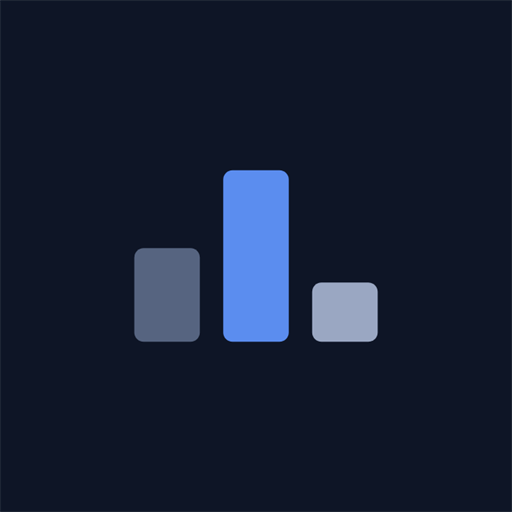
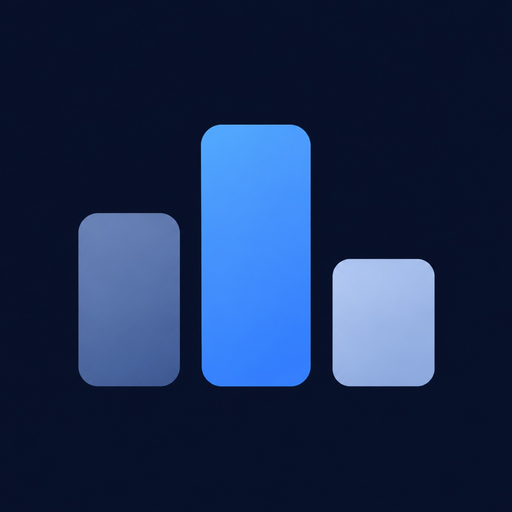
Add files via upload

Changed region(s): [[0.125, 0.2188, 0.875, 0.7812]]

diff --git a/index.html b/index.html
@@ -12,6 +12,8 @@
 <link rel="manifest" href="manifest.json">
 <meta name="mobile-web-app-capable" content="yes">
 <link rel="icon" type="image/svg+xml" href="icon.svg">
+<link rel="icon" type="image/png" sizes="192x192" href="icon-192.png">
+<link rel="apple-touch-icon" href="apple-touch-icon.png">
 <link rel="preconnect" href="https://fonts.googleapis.com">
 <link rel="preconnect" href="https://fonts.gstatic.com" crossorigin>
 <link href="https://fonts.googleapis.com/css2?family=Manrope:wght@500;600;700;800&display=swap" rel="stylesheet">
@@ -269,9 +271,84 @@ button.stat{text-align:left;color:inherit;width:100%;cursor:pointer}
 /* suggest edit */
 .suggest-row{background:var(--s2);border-radius:10px;padding:8px 12px;margin-bottom:6px;font-size:13px}
 .suggest-row b{display:block;font-size:12px;color:var(--acc)}
+
+/* Collectible badge gallery refresh */
+#badge-sheet .panel{background:radial-gradient(ellipse at 50% -20%,rgba(91,141,239,.16),transparent 55%),var(--s1)}
+#badge-sheet h2{font-size:22px;letter-spacing:-.035em}
+.badge-collection-head{display:flex;align-items:center;justify-content:space-between;gap:12px;margin:4px 0 14px;padding:13px 14px;border:1px solid var(--line);border-radius:16px;background:linear-gradient(135deg,rgba(91,141,239,.10),rgba(34,211,238,.045))}
+.badge-collection-head .bch-title{font-size:12px;font-weight:850;letter-spacing:.09em;text-transform:uppercase}
+.badge-collection-head .bch-count{font-size:12px;color:var(--mut);margin-top:3px}
+.badge-collection-head .bch-number{font-size:25px;font-weight:900;letter-spacing:-.05em;font-variant-numeric:tabular-nums}
+.badge-progress{height:5px;background:var(--s2);border-radius:99px;overflow:hidden;margin-top:9px}
+.badge-progress>span{display:block;height:100%;border-radius:99px;background:linear-gradient(90deg,#5B8DEF,#22D3EE);transition:width .35s ease}
+.badge-section-title{display:flex;align-items:center;justify-content:space-between;gap:10px;margin:17px 2px 9px;font-size:10px;font-weight:900;text-transform:uppercase;letter-spacing:.12em;color:var(--mut)}
+.badge-section-title .bst-count{padding:4px 7px;border:1px solid var(--line);border-radius:999px;font-size:10px;letter-spacing:0}
+.badge-wall{display:grid;grid-template-columns:repeat(3,minmax(0,1fr));gap:9px}
+.badge-card{position:relative;display:flex;min-width:0;flex-direction:column;align-items:center;text-align:center;gap:6px;padding:12px 7px 11px;border:1px solid var(--line);border-radius:17px;background:linear-gradient(155deg,var(--s2),rgba(255,255,255,.015));overflow:hidden;isolation:isolate;transition:transform .18s ease,border-color .18s ease,background .18s ease}
+.badge-card:before{content:"";position:absolute;inset:0 0 auto;height:3px;background:linear-gradient(90deg,#5B8DEF,#22D3EE);opacity:.9}
+.badge-card.earned{border-color:rgba(91,141,239,.38);box-shadow:inset 0 0 0 1px rgba(91,141,239,.045),0 5px 18px rgba(0,0,0,.08)}
+.badge-card.earned:after{content:"✓";position:absolute;right:7px;top:7px;width:17px;height:17px;display:grid;place-items:center;border-radius:50%;background:rgba(52,211,153,.16);border:1px solid rgba(52,211,153,.42);color:#34d399;font-size:10px;font-weight:900}
+.badge-card.locked{background:linear-gradient(155deg,rgba(120,130,145,.07),var(--s1));border-style:dashed;opacity:.78}
+.badge-card.locked:before{background:var(--line);opacity:.8}
+.badge-card>div:first-child{display:grid;place-items:center;width:100%;min-height:82px}
+.badge-card img{width:76px;height:76px;max-width:100%;object-fit:contain;border-radius:14px!important;filter:drop-shadow(0 5px 7px rgba(0,0,0,.2));}
+.badge-card.locked img{filter:grayscale(1) brightness(.58) drop-shadow(0 3px 5px rgba(0,0,0,.12));opacity:.68}
+.badge-card.locked>div:first-child>div{border:1px dashed var(--line);background:var(--s2)!important;color:var(--mut)}
+.bc-name{font-size:12px;font-weight:850;line-height:1.2;overflow-wrap:anywhere}
+.bc-sub{font-size:10px;line-height:1.35;color:var(--mut);min-height:27px;max-width:100%;overflow-wrap:anywhere}
+.badge-card.earned .bc-sub{color:var(--mut)}
+.badge-card.locked .bc-name{opacity:.65!important}
+@media(min-width:430px){.badge-wall{grid-template-columns:repeat(4,minmax(0,1fr))}.badge-card{padding:13px 8px}.badge-card img{width:82px;height:82px}}
+@media(max-width:340px){.badge-wall{grid-template-columns:repeat(2,minmax(0,1fr))}.badge-card img{width:72px;height:72px}}
+@media(hover:hover){.badge-card.earned:hover{transform:translateY(-2px);border-color:rgba(34,211,238,.65)}}
+
+
+/* Challenge Room animated launch splash — centered, lightweight, accessible */
+#app-splash{position:fixed;inset:0;z-index:99999;display:grid;place-items:center;overflow:hidden;padding:24px;background:radial-gradient(ellipse at 50% 43%,rgba(37,103,221,.13),transparent 39%),linear-gradient(145deg,#080e22,#050a18 75%);opacity:1;visibility:visible;transition:opacity .42s ease,visibility .42s ease;color:#f4f7ff}
+#app-splash.splash-hidden{opacity:0;visibility:hidden;pointer-events:none}
+#app-splash .splash-ambient{position:absolute;width:260px;height:260px;border-radius:50%;background:#247bff;filter:blur(90px);opacity:0;animation:cr-ambient 4.2s ease-in-out infinite;pointer-events:none}
+#app-splash .splash-inner{position:relative;display:flex;flex-direction:column;align-items:center;justify-content:center;width:100%;max-width:440px;text-align:center;transform:translateY(-1vh);animation:cr-mark-in .85s cubic-bezier(.2,.8,.2,1) both}
+#app-splash .splash-halo{position:absolute;top:2%;width:min(66vw,260px);aspect-ratio:1;border-radius:50%;background:radial-gradient(circle,rgba(48,132,255,.18),transparent 68%);filter:blur(12px);opacity:0;animation:cr-halo-in 1.2s .3s ease-out forwards;pointer-events:none}
+#app-splash .splash-mark{display:block;position:relative;width:min(66vw,260px);height:auto;aspect-ratio:1;overflow:visible}
+#app-splash .splash-bar{transform-box:fill-box;transform-origin:center bottom;transform:scaleY(.03);opacity:.3;animation:cr-bar-rise .78s cubic-bezier(.18,.85,.25,1.15) forwards}
+#app-splash .splash-bar.left{animation-delay:.22s}#app-splash .splash-bar.center{animation-delay:.42s;filter:drop-shadow(0 0 10px rgba(47,130,255,.15))}#app-splash .splash-bar.right{animation-delay:.62s}
+#app-splash .splash-title{margin-top:5px;font:800 clamp(27px,7vw,36px)/1.1 var(--f);letter-spacing:-1.3px;color:#f4f7ff;opacity:0;transform:translateY(12px);animation:cr-text-in .7s .95s ease-out forwards}
+#app-splash .splash-title span{color:#55a1ff}
+#app-splash .splash-tagline{margin-top:12px;font-size:12px;letter-spacing:2.6px;text-transform:uppercase;color:#8c9bb9;opacity:0;animation:cr-fade-in .7s 1.25s ease forwards}
+#app-splash .splash-line{width:108px;height:3px;border-radius:20px;background:rgba(145,169,211,.14);overflow:hidden;margin-top:35px;opacity:0;animation:cr-fade-in .5s 1.4s ease forwards}
+#app-splash .splash-line:after{content:"";display:block;width:38%;height:100%;border-radius:20px;background:linear-gradient(90deg,#2875ff,#78c5ff);box-shadow:0 0 12px rgba(49,136,255,.6);animation:cr-load 2.1s 1.6s ease-in-out infinite}
+#app-splash .splash-hint{position:absolute;bottom:calc(22px + env(safe-area-inset-bottom));color:#53617d;font-size:11px;letter-spacing:.5px;opacity:0;animation:cr-fade-in .7s 1.7s ease forwards}
+@keyframes cr-bar-rise{0%{transform:scaleY(.03);opacity:.15}68%{transform:scaleY(1.045);opacity:1}100%{transform:scaleY(1);opacity:1}}
+@keyframes cr-mark-in{from{opacity:0;transform:translateY(8px) scale(.94)}to{opacity:1;transform:translateY(-1vh) scale(1)}}
+@keyframes cr-halo-in{to{opacity:1}}@keyframes cr-text-in{to{opacity:1;transform:translateY(0)}}@keyframes cr-fade-in{to{opacity:1}}
+@keyframes cr-ambient{0%,100%{opacity:.03;transform:scale(.8)}50%{opacity:.13;transform:scale(1.12)}}
+@keyframes cr-load{0%{transform:translateX(-110%)}55%{transform:translateX(180%)}100%{transform:translateX(310%)}}
+@media(prefers-reduced-motion:reduce){#app-splash *,#app-splash:before{animation-duration:.01ms!important;animation-iteration-count:1!important;transition:none!important}}
 </style>
 </head>
 <body>
+<div id="app-splash" role="status" aria-label="Loading Challenge Room">
+  <div class="splash-ambient" aria-hidden="true"></div>
+  <div class="splash-inner">
+    <div class="splash-halo" aria-hidden="true"></div>
+    <svg class="splash-mark" viewBox="0 0 400 400" role="img" aria-label="Challenge Room three-bar logo" xmlns="http://www.w3.org/2000/svg">
+      <defs>
+        <linearGradient id="cr-splash-blue" x1="0" y1="0" x2=".2" y2="1"><stop offset="0" stop-color="#55adff"/><stop offset="1" stop-color="#2878ff"/></linearGradient>
+        <linearGradient id="cr-splash-muted-left" x1="0" y1="0" x2="0" y2="1"><stop offset="0" stop-color="#8198c4"/><stop offset="1" stop-color="#3e5788"/></linearGradient>
+        <linearGradient id="cr-splash-muted-right" x1="0" y1="0" x2="0" y2="1"><stop offset="0" stop-color="#c0d7ff"/><stop offset="1" stop-color="#87a8e2"/></linearGradient>
+      </defs>
+      <g transform="translate(17 0)">
+        <rect class="splash-bar left" x="43" y="166" width="80" height="136" rx="19" fill="url(#cr-splash-muted-left)"/>
+        <rect class="splash-bar center" x="140" y="70" width="86" height="232" rx="20" fill="url(#cr-splash-blue)"/>
+        <rect class="splash-bar right" x="243" y="202" width="80" height="100" rx="19" fill="url(#cr-splash-muted-right)"/>
+      </g>
+    </svg>
+    <div class="splash-title">Challenge <span>Room</span></div>
+    <div class="splash-tagline">Show up. Level up.</div>
+    <div class="splash-line" aria-hidden="true"></div>
+  </div>
+  <div class="splash-hint" aria-hidden="true">BUILT FOR YOUR NEXT LEVEL</div>
+</div>
 <header class="top"><div class="top-in">
   <button class="back" id="back" data-act="back" aria-label="Go back"><svg class="i" viewBox="0 0 24 24"><path d="M15 5l-7 7 7 7"/></svg>Back</button>
   <div class="brand">Challenge Room</div>
@@ -1657,17 +1734,27 @@ function renderBadgeSheet(){
   if(!all.length){el.innerHTML='<div class="meta">No badges defined.</div>';return;}
   const earnedList=all.filter(k=>earned.has(k));
   const lockedList=all.filter(k=>!earned.has(k));
-  const imgOrLock=(k,size=52)=>{const src=BADGE_IMGS[k];return src?`<img src="${src}" width="${size}" height="${size}" style="border-radius:10px;object-fit:cover" alt="${k}">`:
-    `<div style="width:${size}px;height:${size}px;border-radius:10px;background:var(--s2);display:grid;place-items:center;font-size:22px">🔒</div>`;};
+  const pct=Math.round((earnedList.length/Math.max(1,all.length))*100);
+  const imgOrLock=(k,size=52)=>{const src=BADGE_IMGS[k];return src?`<img src="${src}" width="${size}" height="${size}" alt="${BADGE_DEFS[k]?.name||k}" loading="lazy">`:
+    `<div style="width:${size}px;height:${size}px;border-radius:16px;display:grid;place-items:center;font-size:22px">🔒</div>`;};
+  const card=k=>{const d=BADGE_DEFS[k];return`<div class="badge-card ${earned.has(k)?'earned':'locked'}"><div>${imgOrLock(k,76)}</div><div class="bc-name">${d.name}</div><div class="bc-sub">${d.sub}</div></div>`;};
   el.innerHTML=`
-    ${earnedList.length?`<div style="font-size:10px;font-weight:800;color:var(--acc);text-transform:uppercase;letter-spacing:.05em;margin-bottom:8px">Earned (${earnedList.length})</div>
-    <div class="badge-wall" style="margin-bottom:16px">
-      ${earnedList.map(k=>{const d=BADGE_DEFS[k];return`<div class="badge-card earned"><div>${imgOrLock(k)}</div><div class="bc-name">${d.name}</div><div class="bc-sub">${d.sub}</div></div>`;}).join('')}
-    </div>`:`<div class="meta" style="margin-bottom:16px">No badges earned yet — win a mega challenge!</div>`}
-    <div style="font-size:10px;font-weight:800;color:var(--mut);text-transform:uppercase;letter-spacing:.05em;margin-bottom:8px">Locked (${lockedList.length})</div>
-    <div class="badge-wall">
-      ${lockedList.map(k=>{const d=BADGE_DEFS[k];return`<div class="badge-card locked"><div>${imgOrLock(k)}</div><div class="bc-name" style="opacity:.45">${d.name}</div><div class="bc-sub">${d.sub}</div></div>`;}).join('')}
-    </div>`;
+    <div class="badge-collection-head">
+      <div style="flex:1;min-width:0">
+        <div class="bch-title">Your collection</div>
+        <div class="bch-count">${earnedList.length} of ${all.length} badges discovered</div>
+        <div class="badge-progress"><span style="width:${pct}%"></span></div>
+      </div>
+      <div class="bch-number">${pct}%</div>
+    </div>
+    ${earnedList.length?`
+      <div class="badge-section-title"><span>✦ Unlocked</span><span class="bst-count">${earnedList.length}</span></div>
+      <div class="badge-wall">${earnedList.map(card).join('')}</div>
+    `:`<div class="meta" style="padding:14px;border:1px dashed var(--line);border-radius:14px;margin:8px 0 14px">Your collection starts with your first win. Complete a mega challenge to unlock a badge.</div>`}
+    ${lockedList.length?`
+      <div class="badge-section-title"><span>◈ Still to discover</span><span class="bst-count">${lockedList.length}</span></div>
+      <div class="badge-wall">${lockedList.map(card).join('')}</div>
+    `:''}`;
 }
 function openBadgeSheet(){ renderBadgeSheet(); $('badge-sheet')?.classList.add('open'); $('badge-trigger')?.classList.add('active'); }
 function closeBadgeSheet(){ $('badge-sheet')?.classList.remove('open'); $('badge-trigger')?.classList.remove('active'); }
@@ -2472,6 +2559,18 @@ if ('serviceWorker' in navigator && location.protocol.startsWith('http')) window
 history.replaceState({ crApp: true, view: S.view, pane: S.pane, modal: null }, '', location.href);
 document.body.classList.add('auth-pending');
 start();
+</script>
+<script>
+(function(){
+  const splash=document.getElementById('app-splash');
+  if(!splash)return;
+  let dismissed=false;
+  const dismiss=()=>{if(dismissed)return;dismissed=true;splash.classList.add('splash-hidden');};
+  // Let the full logo reveal play, while keeping a hard upper bound on startup delay.
+  const minimumShow=window.matchMedia('(prefers-reduced-motion: reduce)').matches?450:2550;
+  setTimeout(dismiss,minimumShow);
+  setTimeout(dismiss,4200);
+})();
 </script>
 </body>
 </html>

diff --git a/sw.js b/sw.js
@@ -1,4 +1,4 @@
-const CACHE = 'challenge-room-v24-real-badges';
+const CACHE = 'challenge-room-v26-animated-splash';
 const SHELL = ['./', './index.html', './manifest.json', './icon.svg', './icon-192.png', './icon-512.png'];
 self.addEventListener('install', e => {
   e.waitUntil(caches.open(CACHE).then(c => c.addAll(SHELL)).then(() => self.skipWaiting()));
